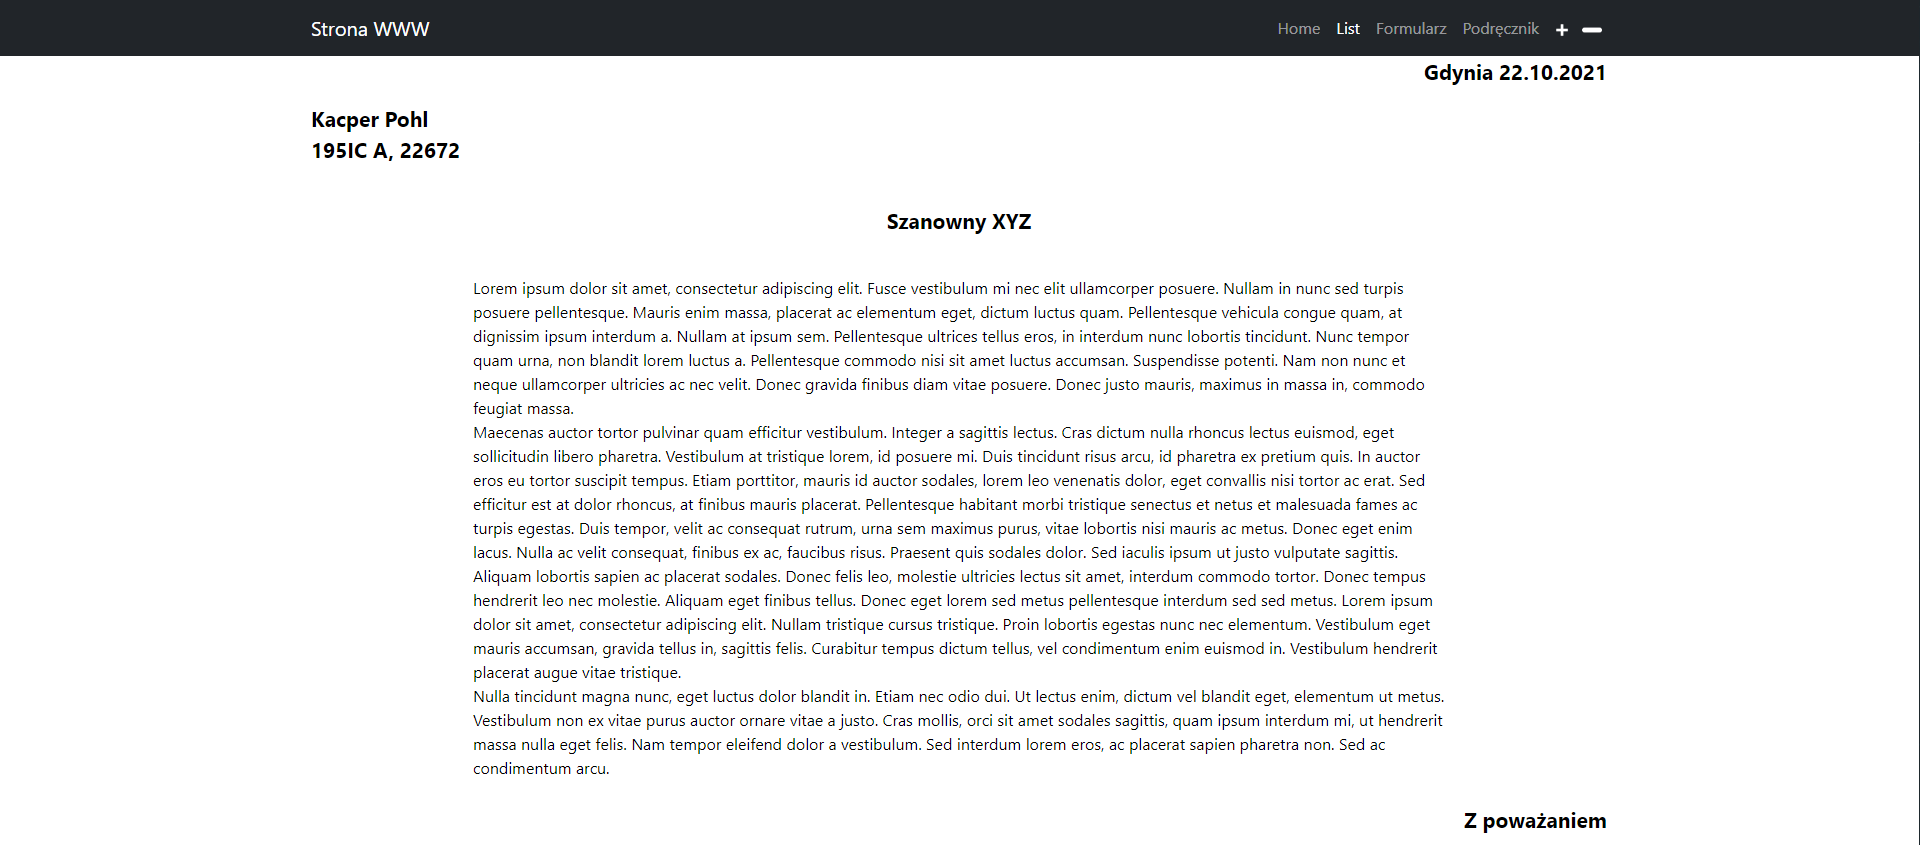
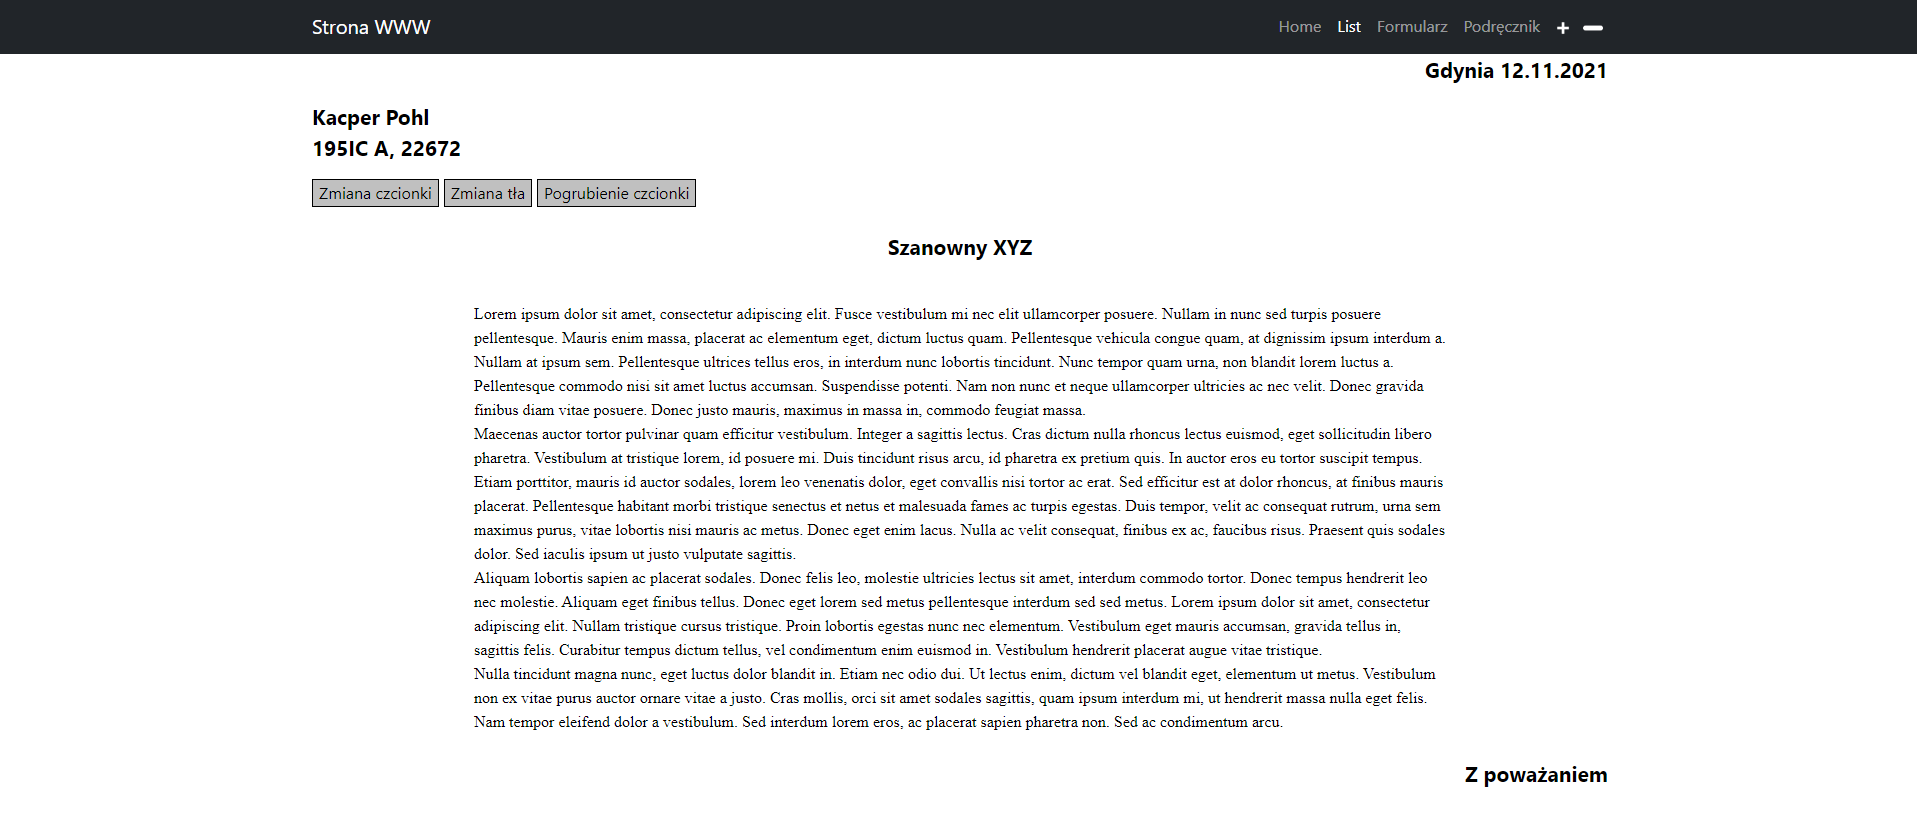
Aktualizacja screenshotów oraz README.md

diff --git a/Lab2/README.md b/Lab2/README.md
@@ -2,17 +2,23 @@
 
 ### Strona startowa - Home (intex.html)
 
-Dodałem na środku wyświetlanie aktualnej godziny, oraz guzik do zmiany tła na jasne. Przy odpaleniu strony włącza się funkcja
-startTime która jest przypisana do body. Sama funkcja pobiera aktualną godzinę, minutę i sekundy. Na końcu jest setTimeout do odświeżenia i ponowne włączenie funkcji do zczytania czasu.
+Dodałem na środku wyświetlanie aktualnej godziny, oraz guzik do zmiany tła. Można zmieniać pomiędzy jasnym oraz ciemnym, przy czym zmienia się także kolor czcionki żeby był czytelny. 
+Przy odpaleniu strony włącza się funkcja startTime która jest przypisana do body. 
+Sama funkcja pobiera aktualną godzinę, minutę i sekundy. Na końcu jest setTimeout do odświeżenia i ponowne włączenie funkcji do zczytania czasu.
 Guzik jest stworzony w pliku index.js oraz funkcja któa odpowiada za zmianę tła oraz koloru textu.
+Dodatkowo przy najechaniu na technologie, tekst powiększa się, a po zabraniu myszki z tekstu, wraca do normalnego rozmiaru.
 
 ![](assets/screenshot/home1.png)
 ![](assets/screenshot/home2.png)
+![](assets/screenshot/home3.png)
+![](assets/screenshot/home4.png)
 
 ### List (list.html)
 
 Dodałem dwa guziki dające możliwość powiększenia lub zmniejszenia tekstu listu. Guziki to pliki png, które po kliknięciu wywołują funkcję odpowiadającą za zmianę rozmiaru czcionki.
 Sama funkcja zczytuje mnożnik, gdzie przy plusie równa się 1, a przy minusie -1, mnoży go o 0.2 i dodaje do obecnej wielkości czcionki. Rozmiar jest w em.
+Dodałem także trzy guziki od modyfikacji tekstu oraz tła. Mamy guzik od zmiany czcionki. Guzik który odpowiada do zmiany tła z jasnego na ciemne i na odwrót, a także guzik od pogrubienia tekstu listu.
+Wszystkie guziki stworzone są w list.js. Dodatkowo data listu jest zawsze aktualna. Data jest zczytywany w list.js, a następnie wrzucana do paragrafu od daty.
 
 ![](assets/screenshot/list1.png)
 ![](assets/screenshot/list2.png)
@@ -20,8 +26,9 @@ Sama funkcja zczytuje mnożnik, gdzie przy plusie równa się 1, a przy minusie 
 ### Formularz (formularz.html)
 
 Teraz strona sprawdza czy wszystkie inputy są uzupełnione. Jeśli nie uzupełnimy wszystkie, wyskoczy nam komunikat o tym że mamy wszystko uzupełnić.
-Gdy wszystko uzupełnimy i wyślemy, dostaniemy podziękowania za uzupełnienie formularza. Dodatkowo za każdym razem guzik Wyslij, zmienia kolor tła na losowy po wysłaniu.
-Wykorzystałem jQuery do zweryfikowania radio buttonów, czy chociaż jeden został zaznaczony.
+Gdy wszystko uzupełnimy i wyślemy, dostaniemy podziękowania za uzupełnienie formularza. Po przejechaniu wskażnikiem na guziku wyślij, zmieni się kolor jego tła na losowy.
+Tak samo po najechaniu na okienko formularza, jego cień i ramka zmieni kolor na żółty, a gdy wyjdziemy wskaźnikiem z okienka, wróci do poprzedniego koloru.
+W zależności od tego jaką płeć zaznaczymy, kolor tła okienka zmieni się. Jeśli mężczyzna to na niebieski, jeśli kobieta to różowy.
 
 ![](assets/screenshot/formularz1.png)
 ![](assets/screenshot/formularz2.png)
@@ -30,8 +37,9 @@ Wykorzystałem jQuery do zweryfikowania radio buttonów, czy chociaż jeden zost
 ### Podręcznik (podrecznik.html)
 
 Na samej stronie zmieniłem trochę wygląd za pomocą js. Stworzyłem cień przy stronie, zmieniłem kolor tła za stroną, zmodyfikowałem ramkę.
-Dodałem możliwość powiększenia obrazka po naciśnieciu.
-Do tego wykorzystałem osobny skrypt.
+Dodałem możliwość powiększenia obrazka po naciśnieciu. Domyślnie strona podręcznika jest zaokrąglona, jeśli jednak najedziemy na strone to okienko będzie kanciasta.
+Tak samo jak najedziemy na równania pod treścią zadania, to czcionka się powiększy i zrobi się grubsza. Gdy zabierzemy mysz, to wróci do normalnego rozmiaru.
 
 ![](assets/screenshot/podrecznik.png)
+![](assets/screenshot/podrecznik1.png)
 ![](assets/screenshot/podrecznik2.png)
